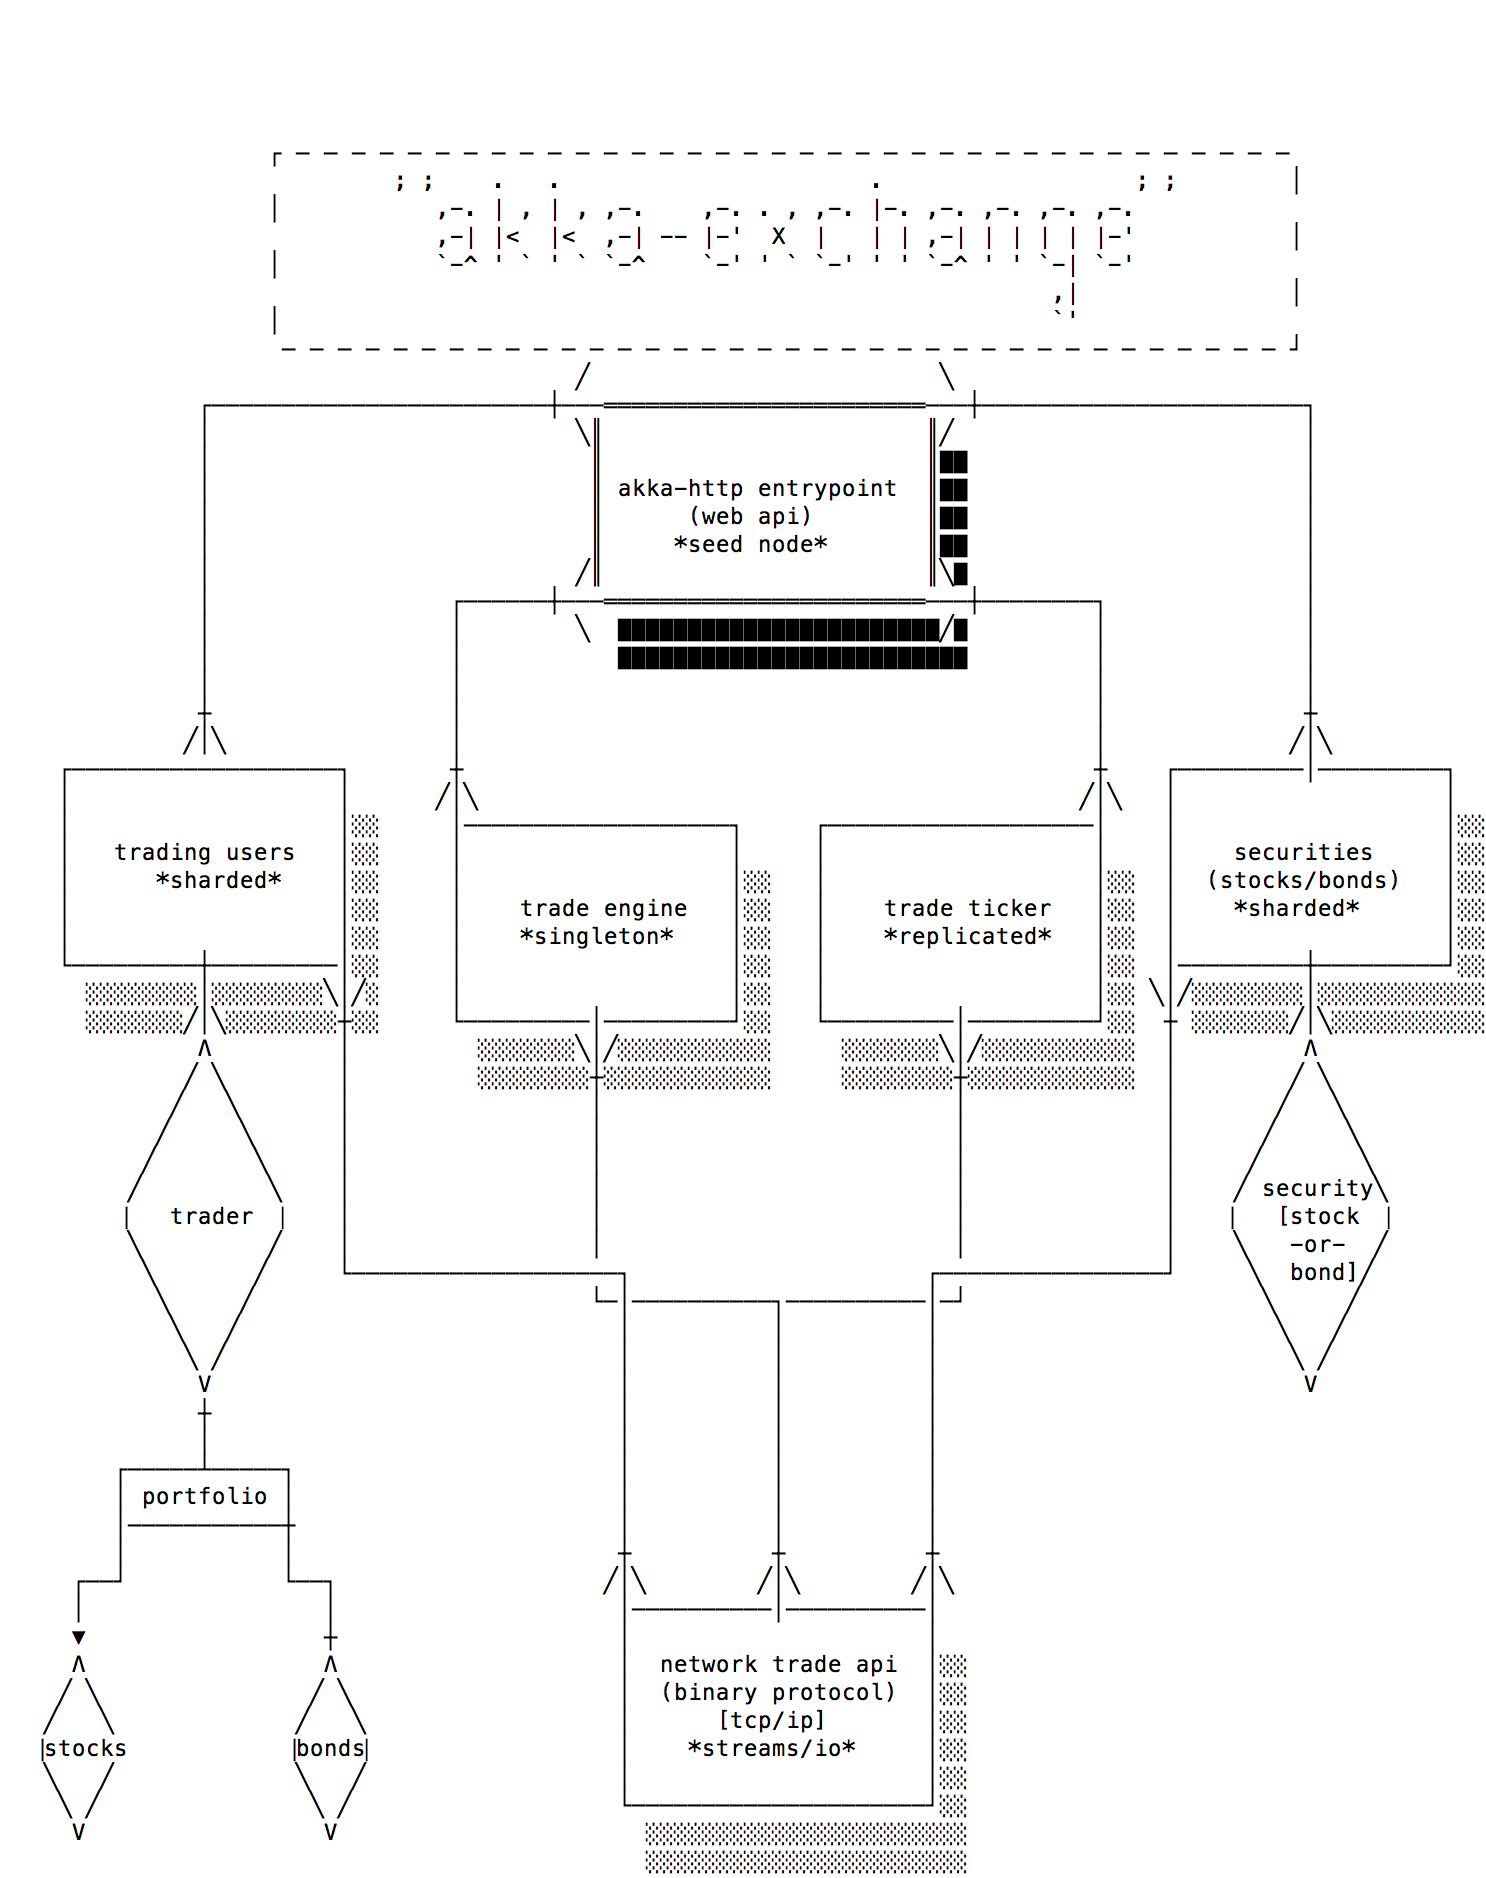
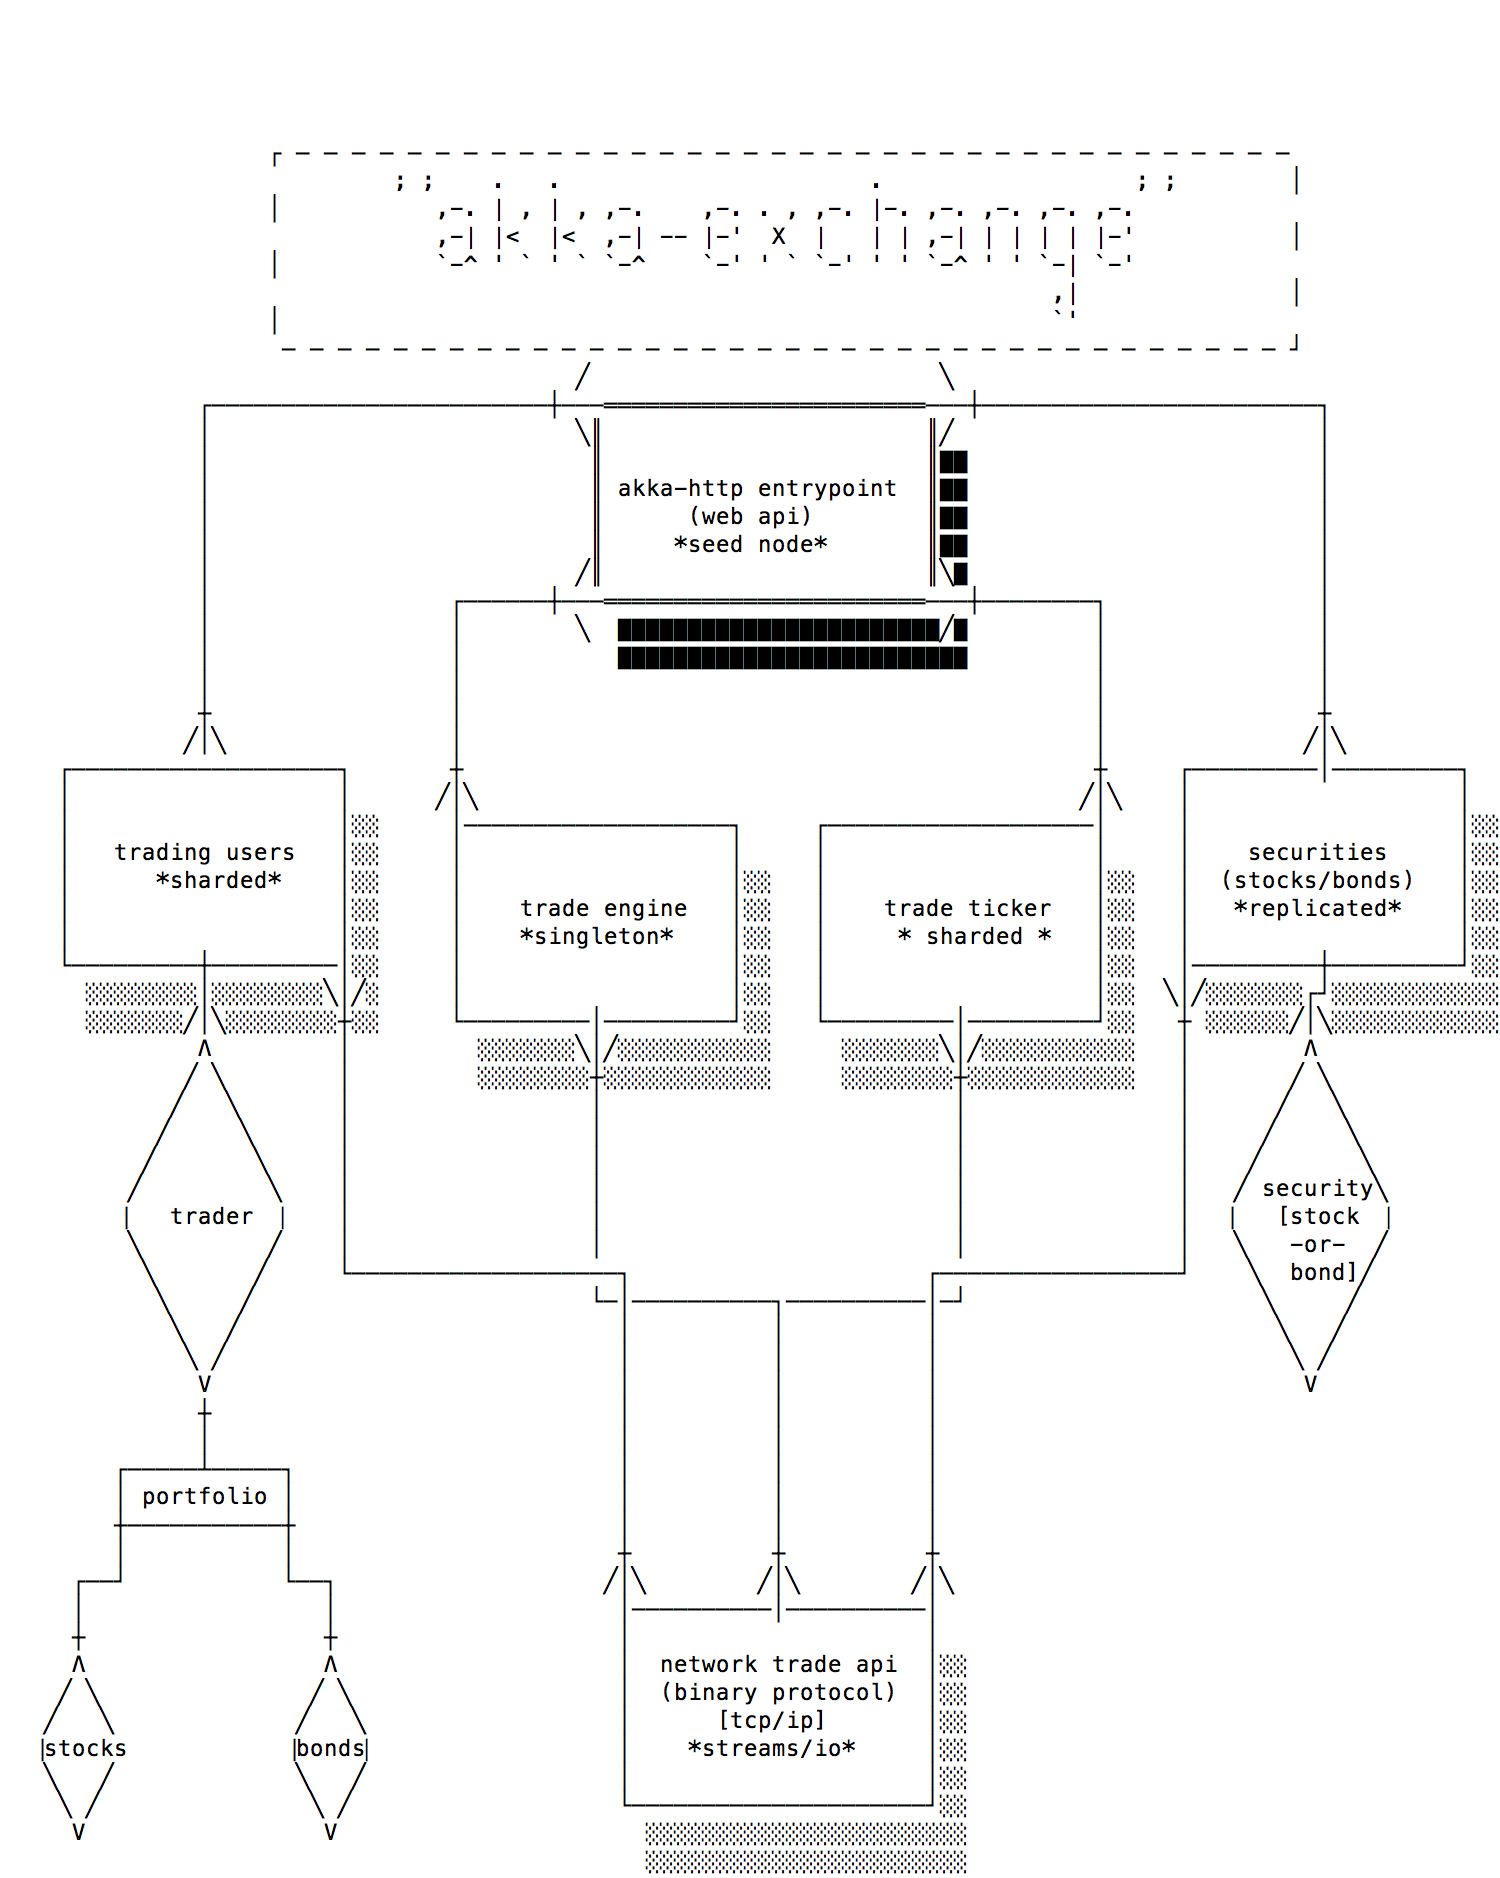
Architecture Redesign   * Ticker is now persistent which makes sense, we'll want to remember all trades   * Securities DB is now ephemeral & replicated. It will be reinitialized from the Trader DB at node boot.

diff --git a/README.md b/README.md
@@ -27,12 +27,12 @@ The overall architecture is outlined roughly in the following diagram. Specific 
 
 The system utilizes Akka clustering, and is broken into several components. Each of the cluster nodes, uses several plugins which demonstrate various Akka Clustering features.
 
-  - [Frontend Node](#frontend): The Rest API [akka-http / seed node(s)]
-  - [Trade Ticker Node](#trading-users): Replicated Feed of completed trades/current prices. Utilizes Data Distribution (aka replication)
+  - [Frontend Node(s)](#frontend): The Rest API [akka-http / seed node(s)]
+  - [Trade Ticker Node](#trading-users): Replicated Feed of completed trades/current prices. Retrieves Trade notifications from the Event Bus. Saves the data via Akka Persistence.
   - [Trade Engine Node](#trade-engine): A Cluster Singleton which proxies the transactions for requested trades. Makes sure there's only ever one instance so that it can gate trades on a single item.
-  - [Trading Users DB](#trading-users): Sharded Database of active users and their portfolios. Utilizes Sharding & Persistence.
-  - [Securities DB Node](#securities): Sharded Database of known Securities, i.e. Stocks & Bonds. Utilizes Sharding & Persistence.
-  - [Network Trade API](#network-trade-api): Network API for Trading, using a Binary Protocol. Utilizes Akka IO and Akka Streams for the sample client.
+  - [Trading Users DB Node(s)](#trading-users): Sharded Database of active users and their portfolios. Utilizes Sharding & Persistence.
+  - [Securities DB Node (s)](#securities): Database of known Securities, i.e. Stocks & Bonds. Utilizes Sharding & Data Distribution (aka Replication). 
+  - [Network Trade API Node(s)](#network-trade-api): Network API for Trading, using a Binary Protocol. Utilizes Akka IO and Akka Streams for the sample client.
 
 
 
@@ -47,27 +47,29 @@ The **frontend** of the system is a node running [akka-http](http://doc.akka.io/
 
 
 #### Trade Ticker
-An ephemeral (i.e. reboots/crashes of all Trade Ticker nodes will lose the data) node of Trade Data. This is a Replicated Feed of completed trades/current prices. 
+A persistent node of Trade Data. This provides a Feed of completed trades/current bids & asks (offers). 
 
-Utilizes [Akka's Data Distribution](http://doc.akka.io/docs/akka/2.4.0-RC1/scala/distributed-data.html) module for Replication, so that there's a "Primary" instance of the Trade Ticker actor, with additional nodes acting as "Secondaries" consuming data. If the Primary node crashes/is shut down, the Secondary node takes over with the replicated data.
+Utilizes [Akka Sharding](http://doc.akka.io/docs/akka/2.4.0-RC1/scala/cluster-sharding.html) to spread out data & reduce single node resource usage. Additionally, uses [Akka Persistence](http://doc.akka.io/docs/akka/2.4.0-RC1/scala/persistence.html) to ensure tolerance to crash/failure/actor migration without losing Trade data.
+
 
 #### Trade Engine
 
 A Cluster Singleton which proxies the transactions for requested trades. Makes sure there's only ever one instance so that it can gate trades on a single item.
+
+Also determines if the system is up & available (beyond 'appropriate nodes up') by checking that all required components are in a 'tradeable' state.
 
 #### Trading Users 
 Sharded Database of active users and their portfolios. Sharded for resource balancing, and Persistent, so it is tolerant to crash/shutdown/actor migration. 
 
 Utilizes [Akka Sharding](http://doc.akka.io/docs/akka/2.4.0-RC1/scala/cluster-sharding.html) to spread out data & reduce single node resource usage. Additionally, uses [Akka Persistence](http://doc.akka.io/docs/akka/2.4.0-RC1/scala/persistence.html) to ensure tolerance to crash/failure/actor migration without losing User data.
 
-- Each Trading User has a sub-actor for their portfolio, with a subactor for each security type. So, each user will have a child Portfolio Actor, each of which has child actors for Stock Portfolio and Bond Portfolio. *(TODO: maybe should be a trader has a StockPortfolio and BondPortfolio?)*
+  - Each Trading User has a sub-actor for their portfolio, with a subactor for each security type. So, each user will have a child Portfolio Actor, each of which has child actors for Stock Portfolio and Bond Portfolio. *(TODO: maybe should be a trader has a StockPortfolio and BondPortfolio?)*
 
 #### Securities 
 
-Sharded Database of known Securities, i.e. Stocks & Bonds. This is all of the Securities active in the system, with information on every bid offer, and trade that has occurred. Sharded for resource balancing, and Persistent, so it is tolerant to crash/shutdown/actor migration.
+Ephemeral (but Replicated) Database of known Securities, i.e. Stocks & Bonds. This is all of the Securities active in the system, with information on every bid offer, and trade that has occurred. This data is initialized cleanly from the Trader DB each time the node restarts, to ensure it is fresh at all times.
 
-Utilizes [Akka Sharding](http://doc.akka.io/docs/akka/2.4.0-RC1/scala/cluster-sharding.html) to spread out data & reduce single node resource usage. Additionally, uses [Akka Persistence](http://doc.akka.io/docs/akka/2.4.0-RC1/scala/persistence.html) to ensure tolerance to crash/failure/actor migration without losing User data.
-
+Utilizes [Akka's Data Distribution](http://doc.akka.io/docs/akka/2.4.0-RC1/scala/distributed-data.html) module for Replication, so that there's a "Primary" instance of the Securities DB actor, with additional nodes acting as "Secondaries" consuming data. If the Primary node crashes/is shut down, the Secondary node takes over with the replicated data. 
 
 #### Network Trade API 
 
